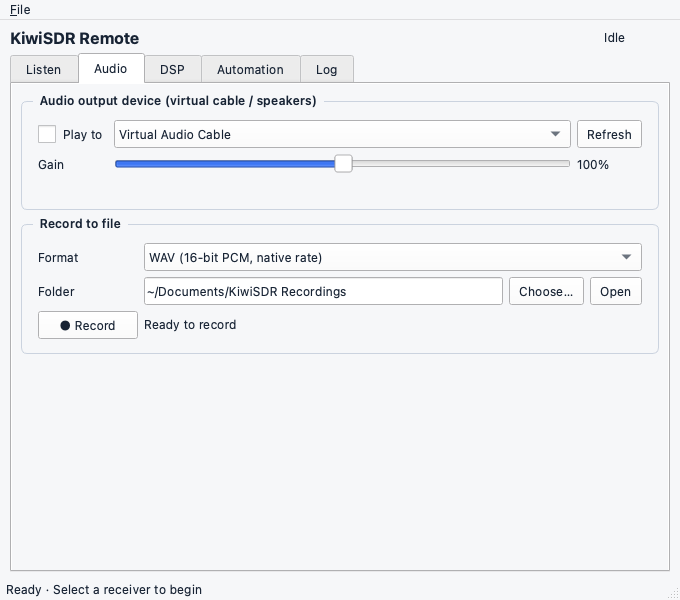
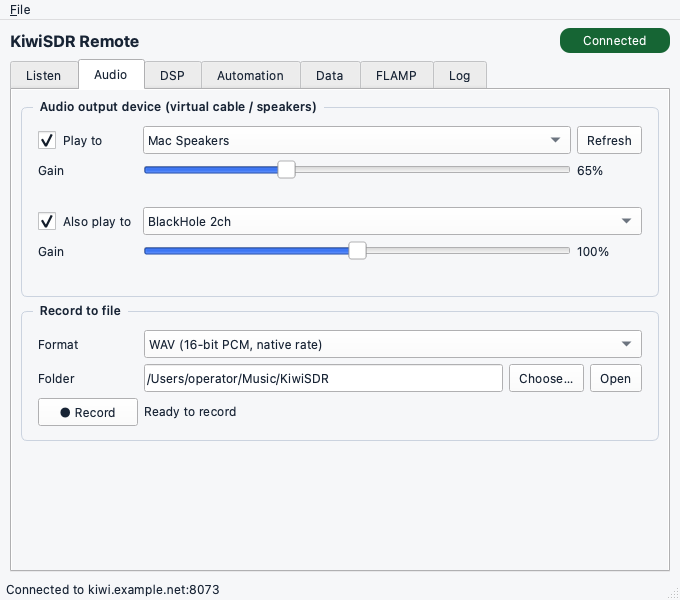
Refresh Remote Client overview and screenshots

diff --git a/README.md b/README.md
@@ -1,24 +1,32 @@
 # KiwiSDR Remote Client
 
-A receive-only desktop and headless client for remote KiwiSDR receivers. Tune a
-receiver, send its audio to speakers or a virtual cable, and record sessions while
-fldigi, WSJT-X or JS8Call handles decoding.
+KiwiSDR Remote Client is an open-source, receive-only application for Windows,
+macOS, and Linux. It connects to a KiwiSDR on your local network or over the
+internet using the receiver protocol implemented by the KiwiSDR team's
+[kiwiclient](https://github.com/jks-prv/kiwiclient).
 
-This project builds on [jeffreycentex/kiwisdr-remote](https://github.com/jeffreycentex/kiwisdr-remote)
-and uses a pinned copy of [jks-prv/kiwiclient](https://github.com/jks-prv/kiwiclient)
-for the receiver protocol. This repository contains the compact interface and the
-control, recording and security improvements developed from that codebase.
+Listen through your speakers, send audio over a virtual audio cable to programs
+like fldigi or WSJT-X, or do both at once. The client can also record audio,
+provide rig control, apply additional filters, decode supported fldigi digital
+modes, and reassemble FLAMP messages and files.
 
-See the [changelog](CHANGELOG.md) for release details.
+The project builds on [KiwiSDR Remote](https://github.com/jeffreycentex/kiwisdr-remote)
+and bundles a pinned copy of kiwiclient. See the [changelog](CHANGELOG.md) for
+release details.
+
+Find public receivers on the [KiwiSDR worldwide map](http://map.kiwisdr.com/)
+or in the [KiwiSDR receiver list](http://rx.kiwisdr.com/).
 
 ## What it does
 
 - **Tune:** USB, LSB, AM, AMN, AMW and FMN, with adjustable bandwidth and receiver-specific frequency limits.
-- **Listen:** output to speakers or a virtual audio cable, with drift correction and resampling.
+- **Listen:** play the same audio through up to two devices at once, with separate gain and clock correction for each.
 - **Record:** native-rate mono WAV, or AAC in M4A/MP4 when PyAV is installed.
 - **Control:** hamlib NET rigctl on `127.0.0.1:4532`, plus an HTTP/JSON API on `127.0.0.1:7373`.
+- **Filter:** use the KiwiSDR noise blanker, auto notch, and noise reduction, plus a local bandpass and manual notch.
 - **Run headless:** connect, tune and record without loading Qt.
 - **Decode digital text:** MFSK16, MFSK32, MFSK64, and Contestia 4-250 directly from the receiver audio on the Data tab.
+- **Receive FLAMP:** track missing blocks across repeated transmissions and save completed files on the FLAMP tab.
 - **Use a compact desktop:** a 680 × 600 light-mode window with Listen, Audio, DSP, Automation, Data, FLAMP and Log tabs. Smaller windows scroll, and window geometry is saved.
 
 The GUI, API and hamlib tuning share one service command queue. Recording has a
@@ -177,13 +185,15 @@ Keyboard shortcuts use Ctrl on Windows/Linux and Command on macOS:
 
 ## Desktop screenshots
 
+Screenshots show the current desktop app with example receiver and transfer data.
+
 ### Listen
 
 ![Listen tab showing receiver connection, tuning modes, and Quick Tune presets](docs/images/main-window.png)
 
 ### Audio
 
-![Audio tab showing output device, gain, and Record to file](docs/images/audio-tab.png)
+![Audio tab showing speakers and BlackHole 2ch enabled, separate gains, and recording controls](docs/images/audio-tab.png)
 
 ### DSP
 
@@ -192,6 +202,14 @@ Keyboard shortcuts use Ctrl on Windows/Linux and Command on macOS:
 ### Automation
 
 ![Automation tab showing Hamlib rigctld, the API, and session limits](docs/images/automation-tab.png)
+
+### Data
+
+![Data tab showing MFSK32 decoding, the audio sweetspot, squelch, decoder quality, and decoded text](docs/images/data-tab.png)
+
+### FLAMP
+
+![FLAMP tab showing a file ready to save and a second transfer waiting for missing blocks](docs/images/flamp-tab.png)
 
 ## Hamlib, API and headless mode
 
